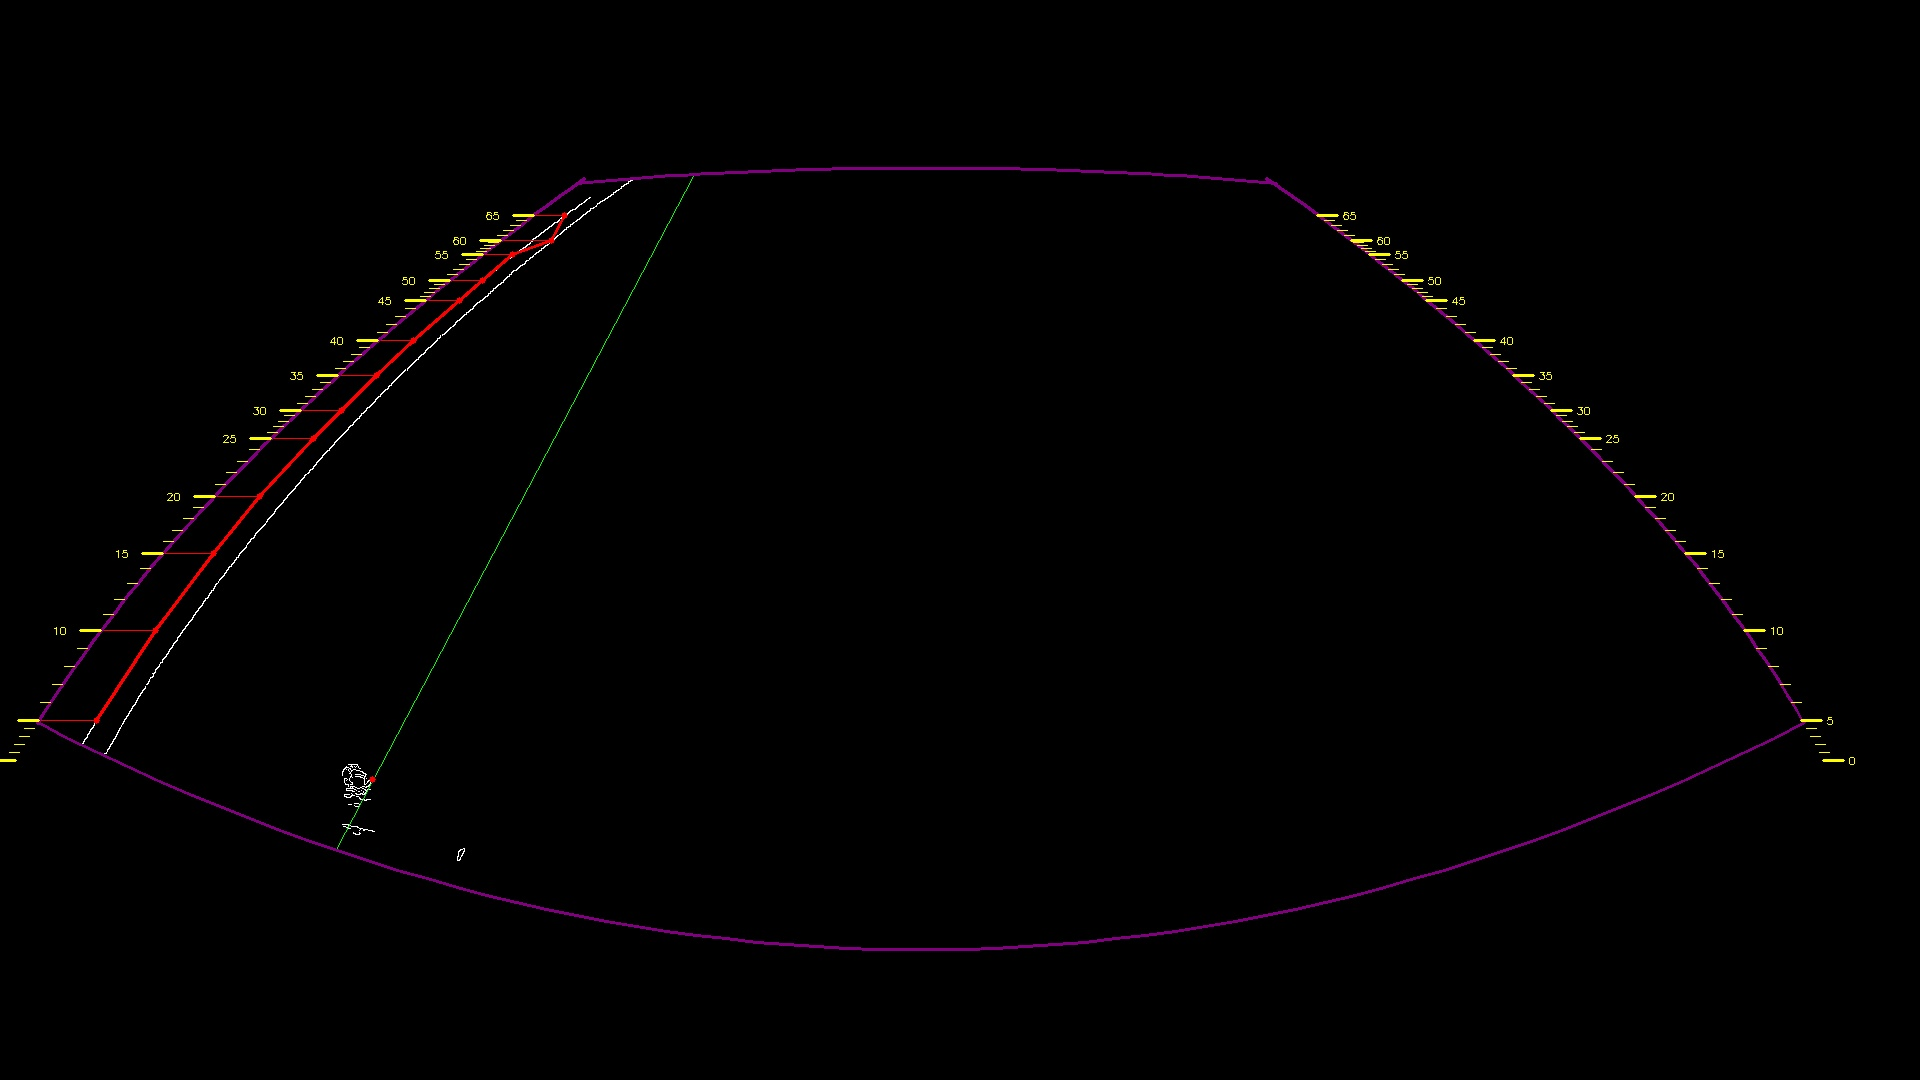
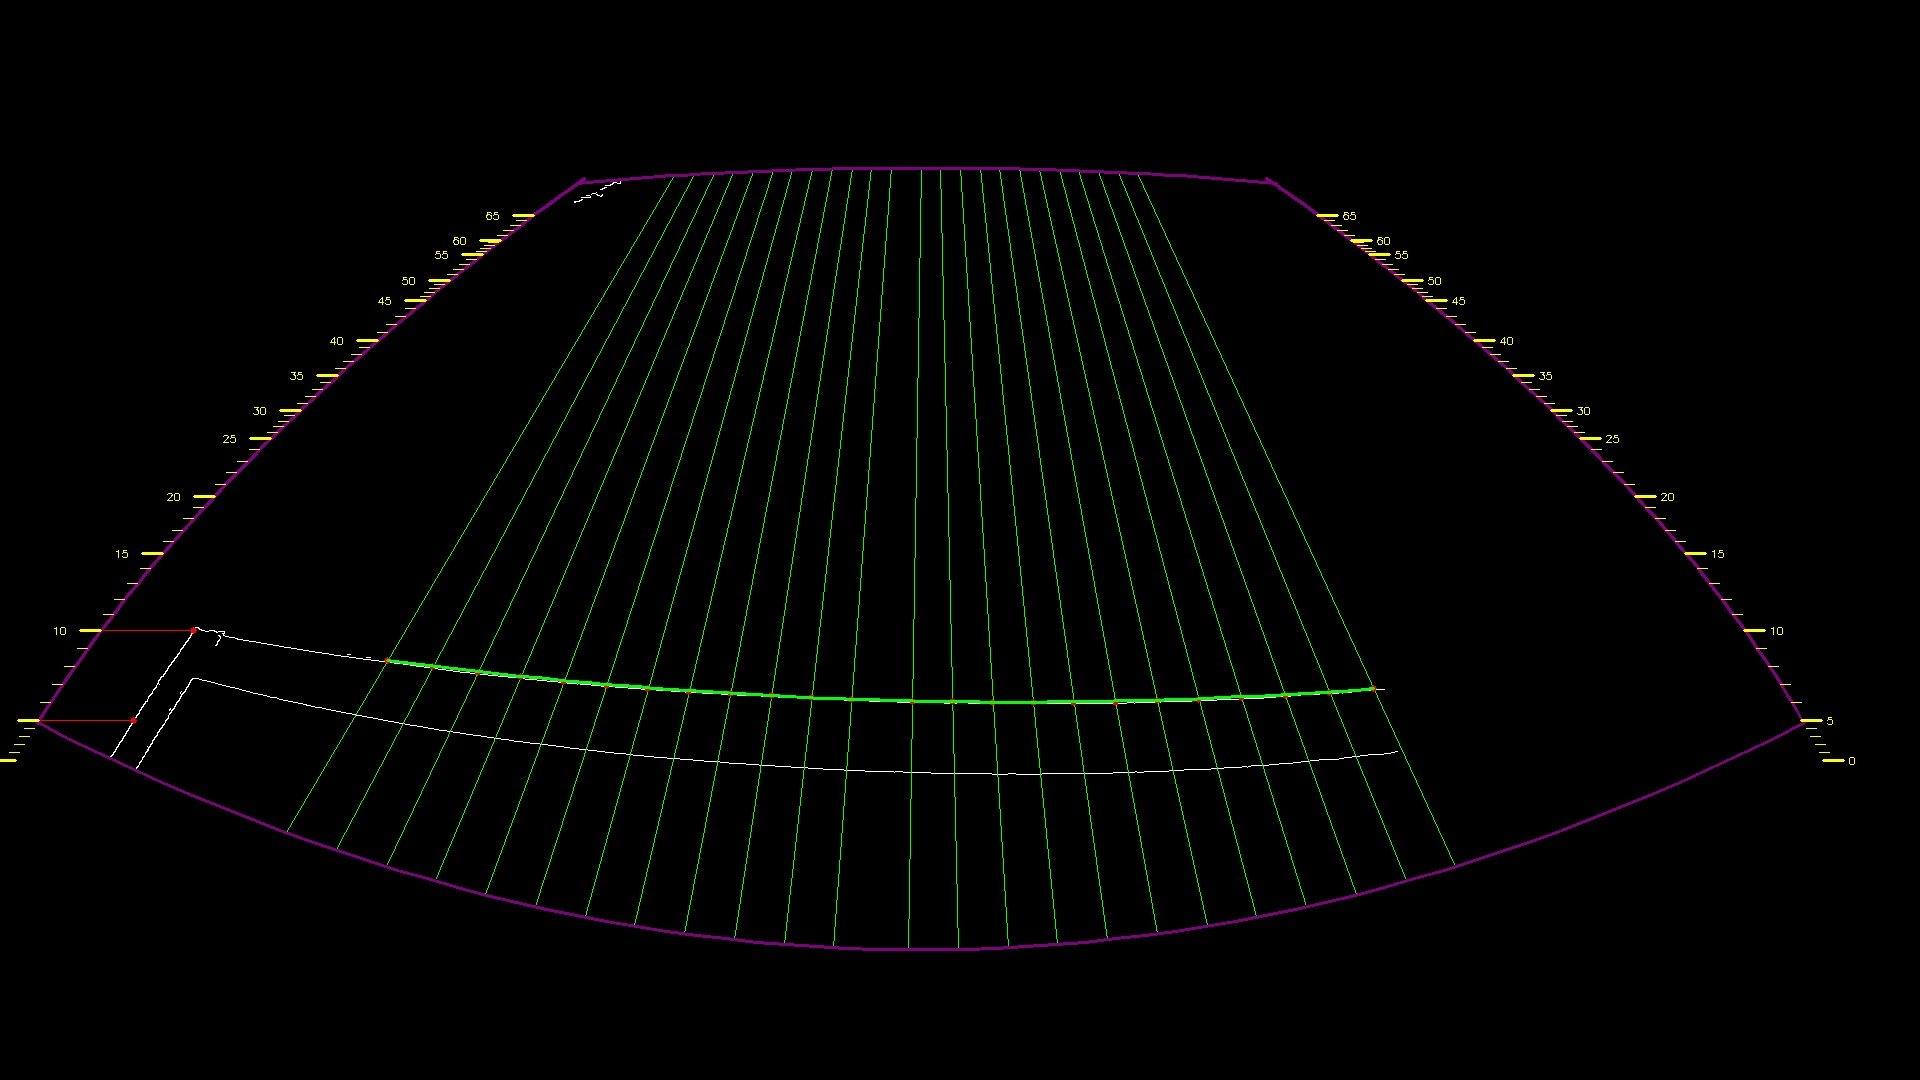
Fix the pwm speed and idle not sure commented yet or nah

diff --git a/Arduino/SolarBotControllerV0.2/src/config/configuration.h b/Arduino/SolarBotControllerV0.2/src/config/configuration.h
@@ -14,7 +14,7 @@
 #define DRIVER_CUSTOM_RELAY   2 
 
 // --- Default Motor Speeds ---
-#define DEFAULT_LEFT_PWM_SPEED   125
+#define DEFAULT_LEFT_PWM_SPEED   130
 #define DEFAULT_RIGHT_PWM_SPEED  137  
 #define DEFAULT_PUMP_PWM_SPEED 160   // Tweak this value (e.g. 120 - 200)
 // ============================================================================
